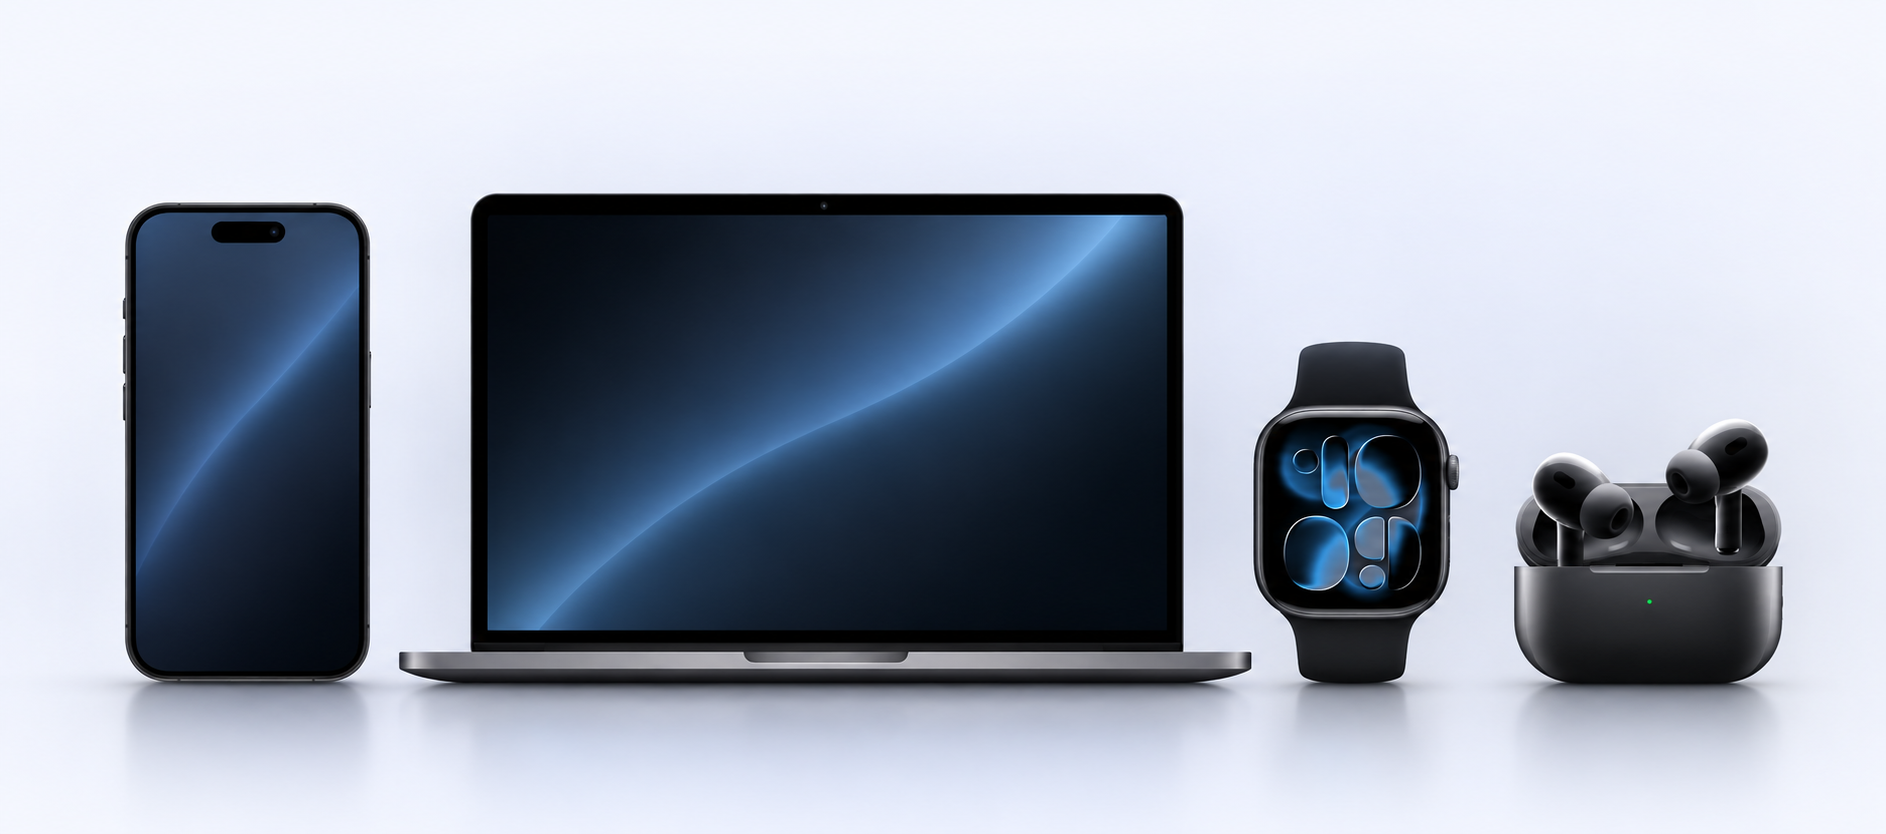
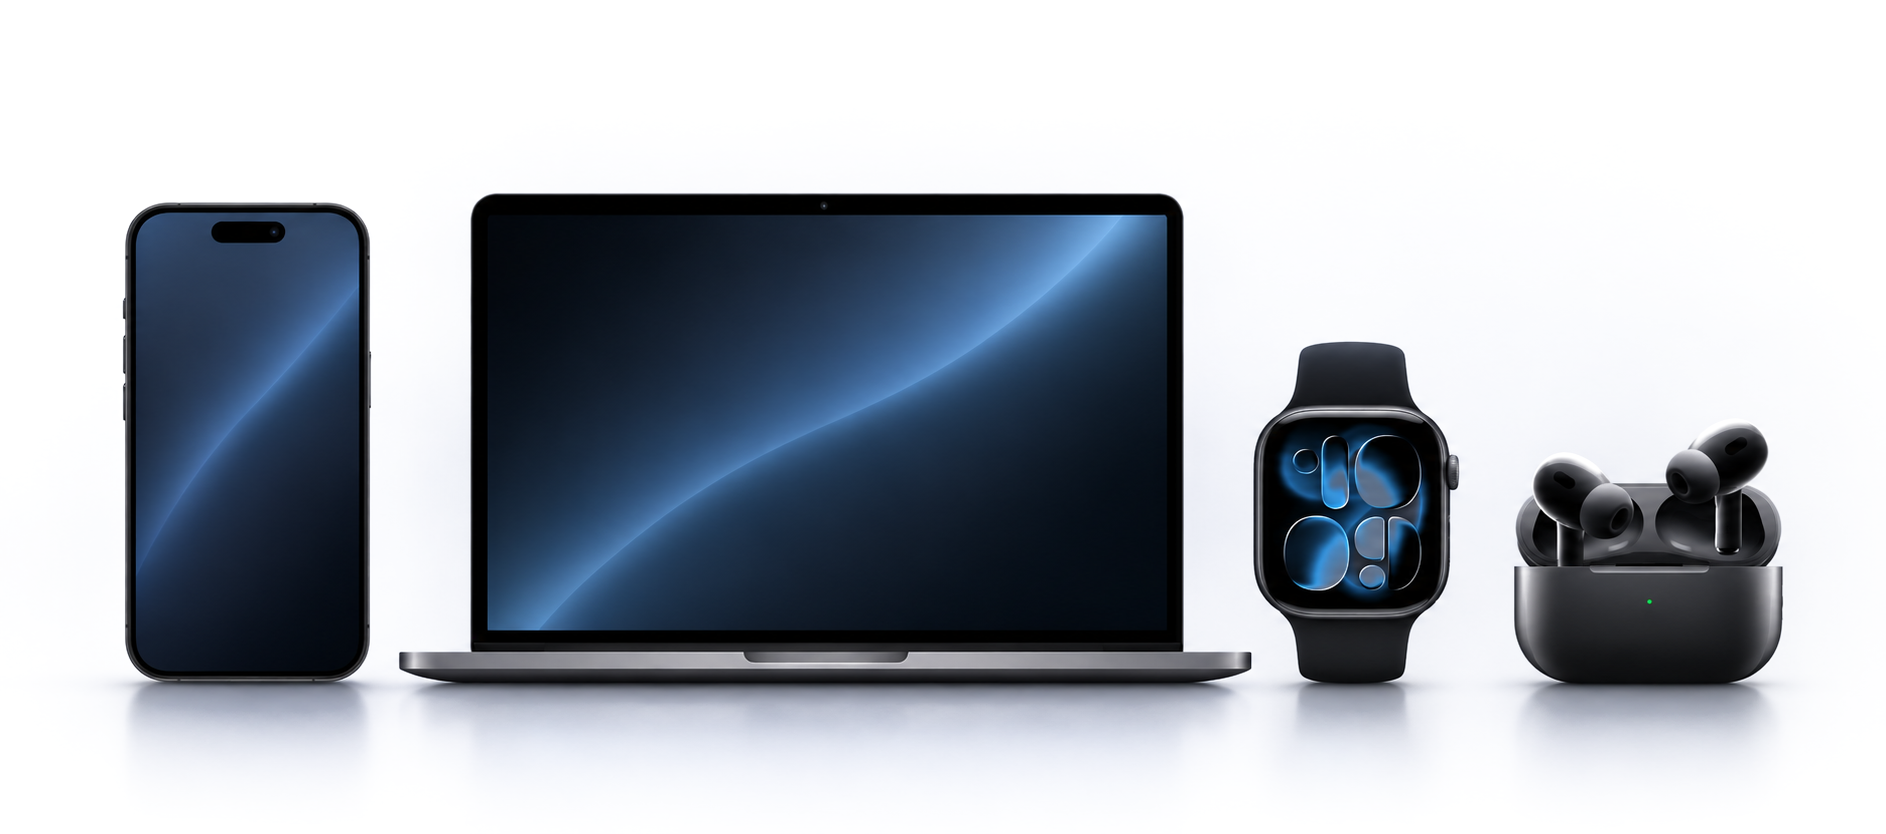
Add files via upload

Changed region(s): [[0.2768, 0.8729, 0.6151, 0.9353]]

diff --git a/index.html b/index.html
@@ -52,7 +52,7 @@
 
 /* v6: единая высококачественная иллюстрация устройств */
 .hero-product-image{width:min(1040px,100%);margin:34px auto 0;position:relative}
-.hero-product-image img{display:block;width:100%;height:auto;object-fit:contain;mix-blend-mode:multiply;-webkit-mask-image:linear-gradient(to right,transparent 0%,#000 5%,#000 95%,transparent 100%);mask-image:linear-gradient(to right,transparent 0%,#000 5%,#000 95%,transparent 100%)}
+.hero-product-image img{display:block;width:100%;height:auto;object-fit:contain;mix-blend-mode:normal;-webkit-mask-image:linear-gradient(to right,transparent 0%,#000 5%,#000 95%,transparent 100%);mask-image:linear-gradient(to right,transparent 0%,#000 5%,#000 95%,transparent 100%)}
 .hero .note{margin-top:4px}
 @media(max-width:560px){.hero-product-image{width:calc(100% + 28px);margin:25px -14px 0}.hero-product-image img{width:100%}.hero .note{font-size:11px}}
 </style>
